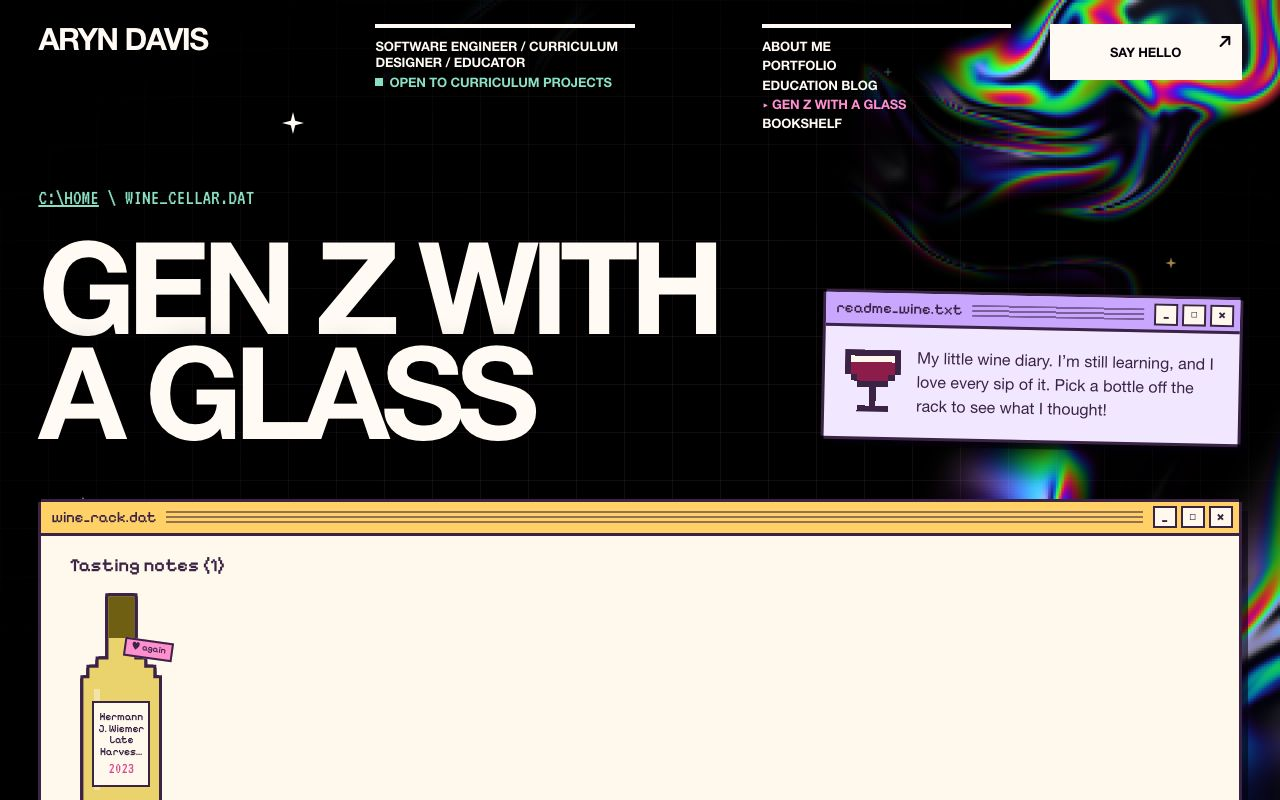
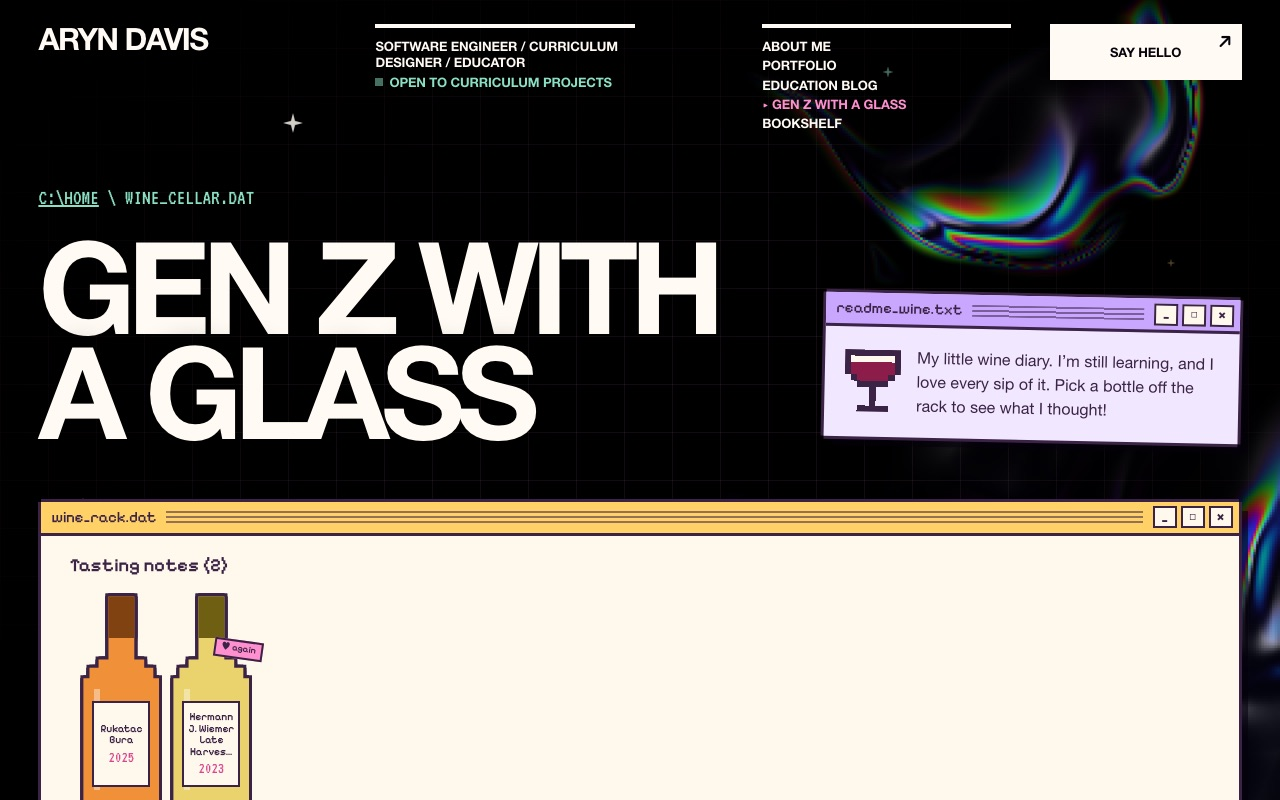
Wine: tasting note for Rukatac Bura 2025

diff --git a/src/content/wine.ts b/src/content/wine.ts
@@ -22,6 +22,28 @@ import texted from './wine.texts.json'
 // Tasting notes written here. (Notes can also be texted in; see textNotes below.)
 export const handNotes: TastingNote[] = [
   {
+    wine: 'Rukatac Bura',
+    grape: 'Rukatac',
+    vintage: 2025,
+    style: 'orange',
+    date: '2026-10-23',
+    producer: 'Bura Estate Vintner',
+    region: 'Dalmatia, Croatia',
+    boughtAt: 'Table Wine, Jackson Heights',
+    rating: 3.5,
+    buyAgain: 'maybe',
+    verdict: 'I’m not a huge fan of acidic wines, but this was still a fun tasting.',
+    sweetness: 'dry',
+    body: 'medium',
+    acidity: 'medium-high',
+    tannin: 'low',
+    flavors: 'lemon zest, lime zest, flower petals, grass, hay',
+    suggestedPairings: ['fish'],
+    moment:
+      'My dad (who is a high-level somm) was visiting my neighborhood recently, so we went to my local wine shop. He said he wanted to buy me an orange wine for my small wine fridge and picked this one out. Then we went back to my place, opened it, got high, and watched Harlem Nights. It was a great time.',
+    finish: 'A lovely bit of acid on the aftertaste.',
+  },
+  {
     wine: 'Hermann J. Wiemer Late Harvest Riesling',
     grape: 'Riesling',
     vintage: 2023,
